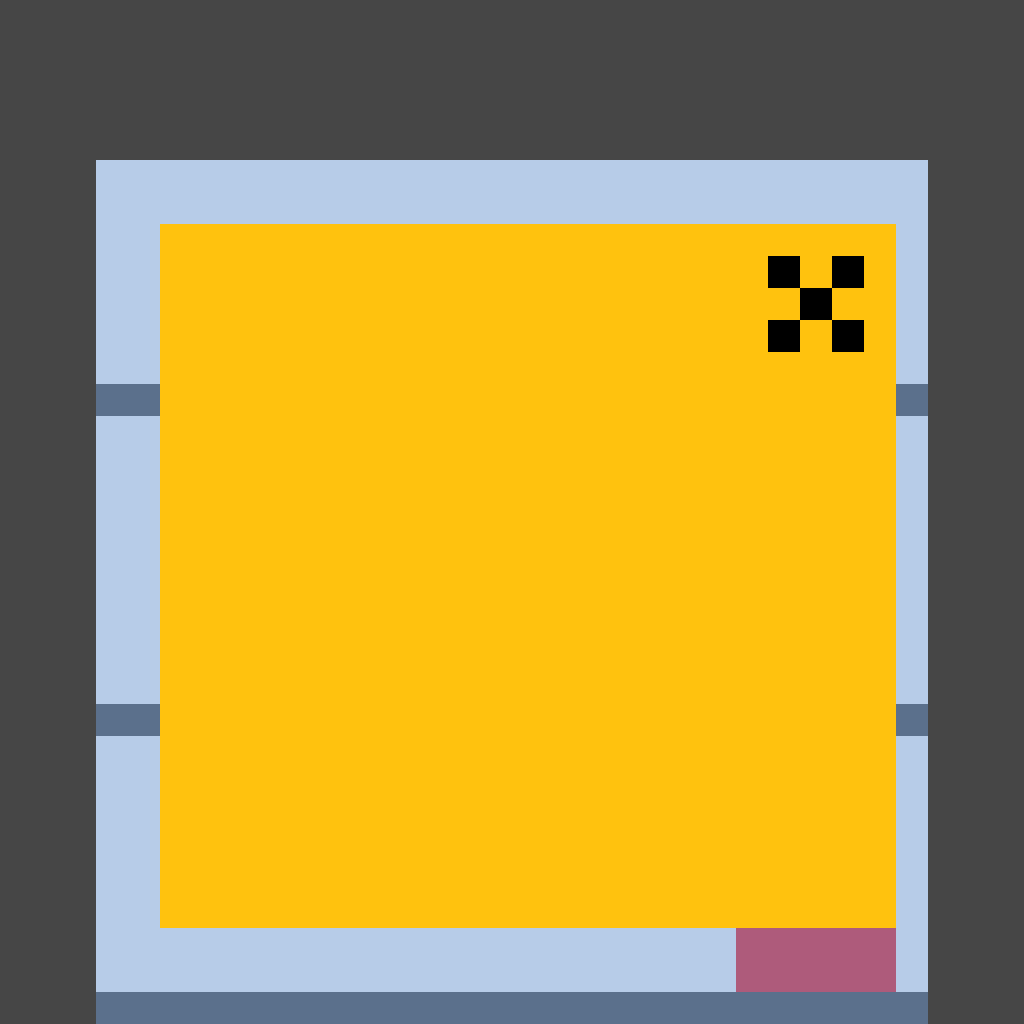
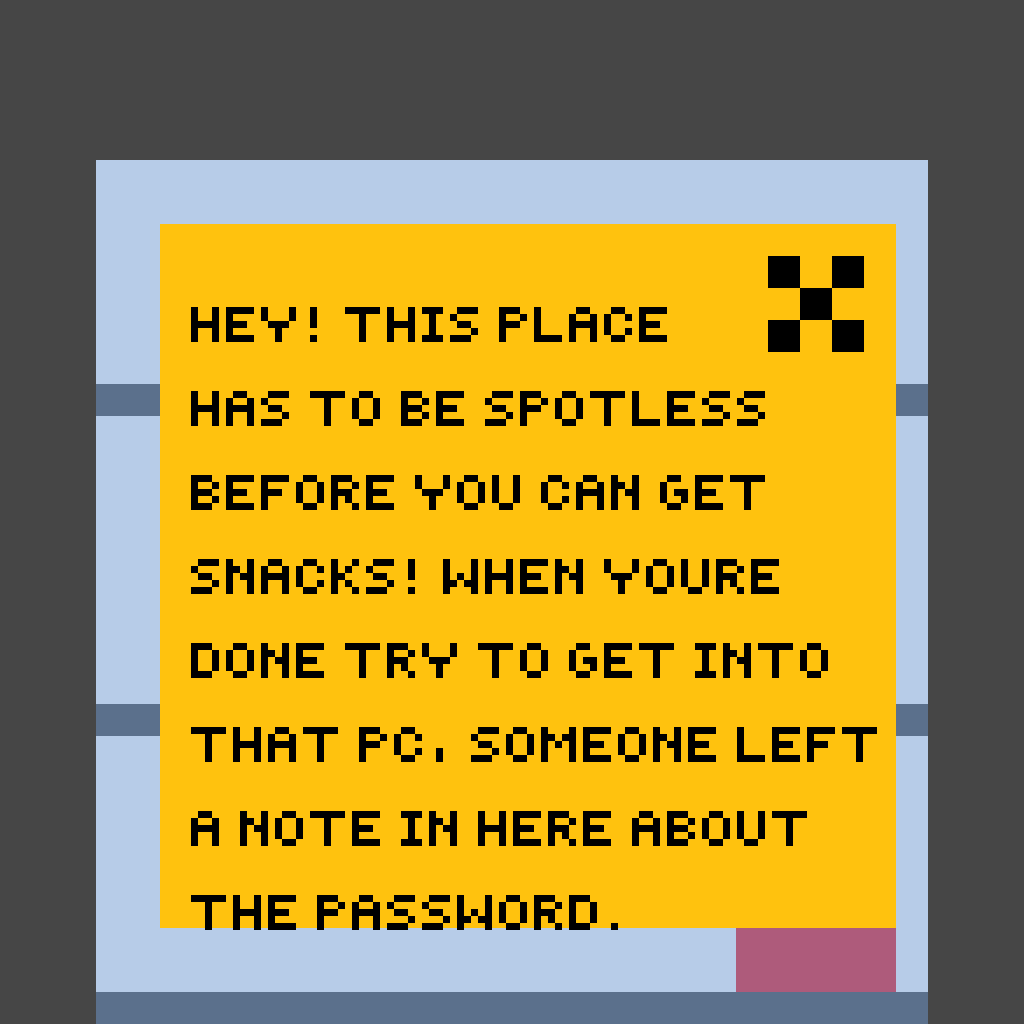
added fridge images and starter code

diff --git a/room3.js b/room3.js
@@ -38,18 +38,24 @@ rooms.room3 = {
 
     28: "tiles/objects/Ldesk.png",
     29: "tiles/objects/Rdesk.png",
-    127: "tiles/objects/floor_mop_tile.png"
+    127: "tiles/objects/floor_mop_tile.png",
+
+    81: "tiles/objects/fridge.png"
   },
   interactables: {
     28: "desk",
     29: "desk",
+    81: "fridge",
     127: "mop"
+    
   },
   onInteract: function (name) {
     if (name === "desk") {
       room3OpenDesk();
     } else if (name === "mop") {
       room3ToggleMop();
+    } else if (name === "fridge"){
+      alert ("you oppend the fridge");
     }
   }
 };
